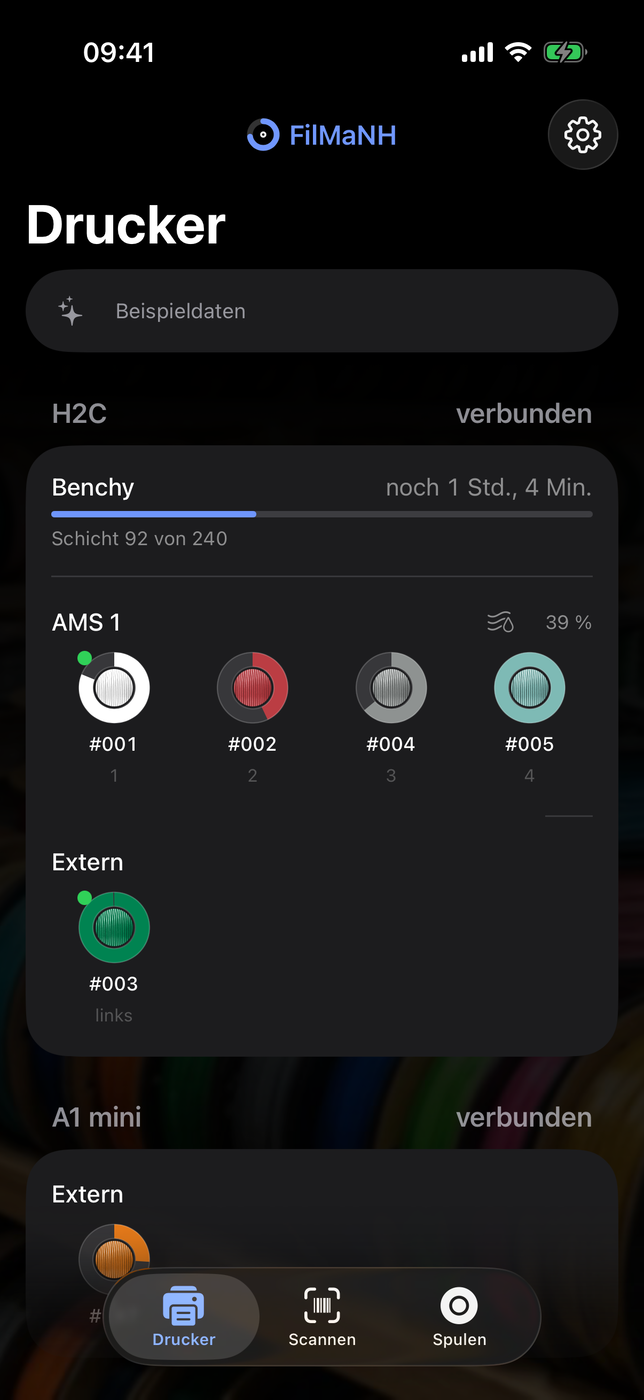
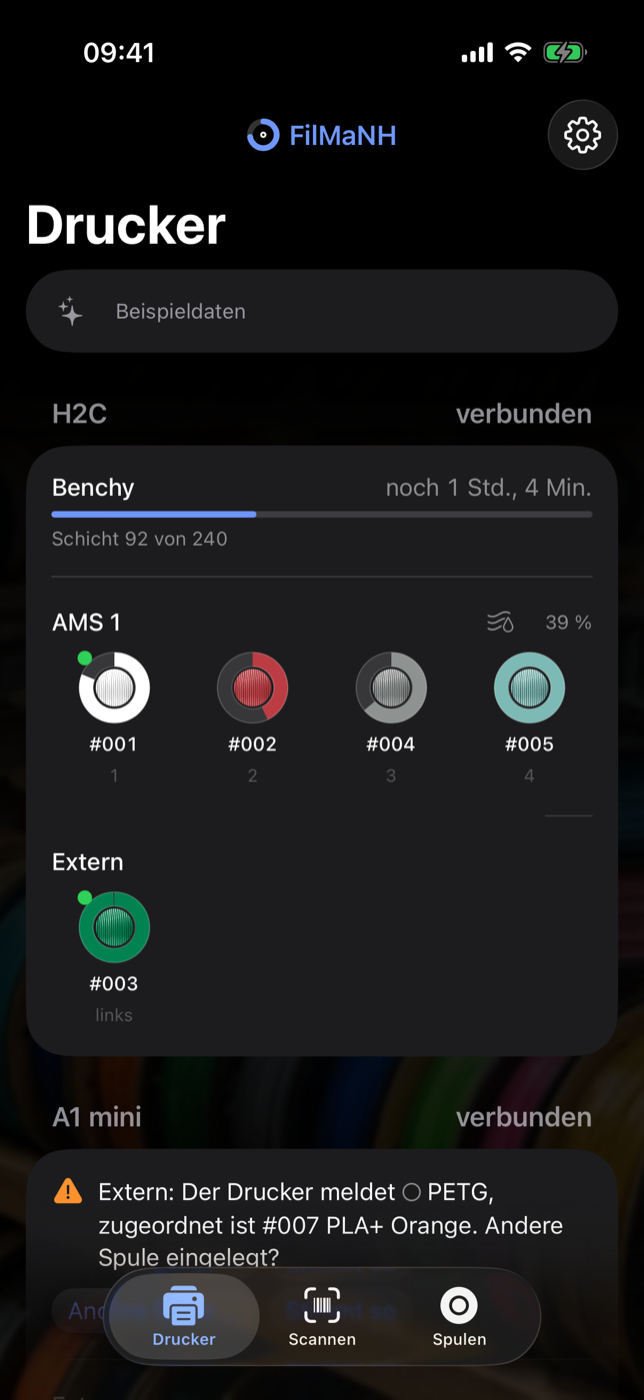
Handbuch 0.8.0: Abgleich mit dem Drucker, Etikettenbögen, Farben der Spulen, Statusanzeige

diff --git a/handbuch/README.md b/handbuch/README.md
@@ -82,8 +82,9 @@ Die Einrichtung lässt sich mit **Später einrichten** überspringen und unter E
 
 ![Übersicht](bilder/01-uebersicht.png)
 
-- **Hinweise** oben zeigen, was Aufmerksamkeit braucht: falsches Material im Slot, Druck mit offenem Ende, Spule
-  ohne Zuordnung, Feuchte, fast leere Spulen. Die passende Aktion steht jeweils daneben.
+- **Hinweise** oben zeigen, was Aufmerksamkeit braucht: falsches Material im Slot, Druck mit offenem Ende, Slots, die
+  nicht zur Meldung des Druckers passen ([Abgleich mit dem Drucker](#abgleich-mit-dem-drucker)), Feuchte, fast leere
+  Spulen. Die passende Aktion steht jeweils daneben.
 - **Drucker** mit Status, laufendem Druck, Restzeit und den Slots samt Restmenge: je AMS die Slots 1–4 (bei mehreren
   AMS mit Überschrift), abgesetzt die externe Spule. Ein Klick öffnet den Drucker.
 - **Zuletzt gedruckt** mit Kosten.
@@ -164,10 +165,19 @@ Bezeichnung, wann die Spule geöffnet wurde, und ein QR-Code mit der Nummer. Bei
   Rollen, die der Drucker kann; die eingelegte ist markiert. Passt das gewählte Format nicht zur eingelegten Rolle,
   sagt FilMaNH das und druckt nicht; nach dem Wechsel **Erneut prüfen**. Das Etikett passt sich dem Format an, die
   Vorschau zeigt genau das Druckbild.
-- **Systemdialog:** für andere Etikettendrucker (Brother über den Treiber, Dymo, Niimbot, Phomemo) und A4-Bögen,
-  mit Vorlagen für gängige Größen. Unter Windows geht jeder Etikettendruck über den Systemdialog.
+- **Druckdialog des Systems (alle Drucker)** unter **Drucken über:** jeder Drucker mit Treiber – Etikettendrucker
+  (Brother, Dymo, Niimbot, Phomemo, Zebra, Rollo) ebenso wie ein Bürodrucker für Etikettenbögen. Unter Windows geht
+  jeder Etikettendruck über den Druckdialog.
 
-**Anzahl je Spule** druckt mehrere gleiche Etiketten. FilMaNH merkt sich, welche Spulen ein Etikett haben.
+![Etikettenbögen](bilder/09b-etiketten-bogen.png)
+
+Unter **Vorlage** stehen Etikettenrollen sowie A4-Bögen von Avery Zweckform und Herma und US-Letter-Bögen von Avery,
+jeweils mit Bestellnummer (gleichwertige zusammengefasst), Größe und Anzahl je Bogen. Passt keine, legt
+**Eigene Größe …** ein einzelnes Etikett oder einen Bogen mit Spalten, Zeilen, Rändern und Abständen an.
+
+**Anzahl je Spule** druckt mehrere gleiche Etiketten, **Beginnen bei Etikett** nutzt angefangene Bögen weiter.
+**Rahmen mitdrucken** druckt die Umrisse mit – zum Ausrichten erst auf Normalpapier. Im Druckdialog die Skalierung
+auf 100 % lassen. FilMaNH merkt sich, welche Spulen ein Etikett haben.
 
 ### Feuchte
 
@@ -178,8 +188,9 @@ PETG, PCTG und PET zeigen nach 30 Tagen offen einen Hinweis, TPU nach 14 Tagen, 
 
 ![Drucker](bilder/10-drucker.png)
 
-Der laufende Druck in 3D – der schon gedruckte Teil ist grün –, dazu Fortschritt, Schicht, Restzeit und Uhrzeit des
-Endes. **angepasst** heißt: Dieser Drucker braucht erfahrungsgemäß länger oder kürzer, als er anzeigt, und FilMaNH
+Der laufende Druck in 3D in den Farben der zugeordneten Spulen – der schon gedruckte Teil voll, der Rest
+durchscheinend –, dazu Fortschritt, Schicht, Restzeit und Uhrzeit des Endes. Darunter die Filamente des Drucks mit der
+Spule im Slot (Nummer wie auf dem Etikett); ein Klick darauf ordnet neu zu, das Modell färbt sich sofort um. **angepasst** heißt: Dieser Drucker braucht erfahrungsgemäß länger oder kürzer, als er anzeigt, und FilMaNH
 rechnet das ein. Das geschieht erst ab drei Drucken und nur, wenn es nachweislich genauer ist.
 
 Beim Druckstart prüft FilMaNH:
@@ -198,8 +209,27 @@ Druckers. **Einrichtung** oben rechts führt zu den Druckereinstellungen.
 
 ![Spule zuordnen](bilder/12-zuordnen.png)
 
-Steckt eine Spule ohne RFID im Slot, fragt FilMaNH, welche es ist: oben die passenden, darunter alle weiteren.
-Ein Klick auf den Slot öffnet die Auswahl jederzeit wieder, z.B. nach einem Spulenwechsel.
+Steckt eine Spule ohne RFID im Slot, fragt FilMaNH, welche es ist: oben die passenden, darunter alle weiteren, jeweils
+mit Nummer und Lagerort. Ein Klick auf den Slot öffnet die Auswahl jederzeit wieder, z.B. nach einem Spulenwechsel.
+
+### Abgleich mit dem Drucker
+
+![Abgleich](bilder/11b-abgleich.png)
+
+Jeder Bambu-Drucker meldet je Slot, was eingestellt ist (Material, Farbe, bei Bambu-Spulen der RFID-Chip) und ob
+Filament steckt. FilMaNH vergleicht das mit der zugeordneten Spule, auch ohne laufenden Druck:
+
+- **Ist das …?** Keine Spule zugeordnet, aber genau eine im Bestand passt. **Ja** ordnet sie zu, **Andere …** öffnet
+  die Auswahl.
+- **… aber keine Spule ist zugeordnet.** Es passen mehrere oder keine. **Zuordnen** öffnet die Auswahl.
+- **Andere Spule eingelegt?** Der Drucker meldet anderes Material, eine deutlich andere Farbe oder einen anderen
+  RFID-Chip. Passt genau eine Spule, ordnet **#… zuordnen** sie zu, sonst **Andere Spule …**. **Stimmt so** behält
+  die Zuordnung.
+- **… entnommen?** Der Slot ist laut Drucker leer. **Ja, entnommen** löst die Zuordnung, **Steckt noch** behält sie
+  (z.B. wenn nur das Filament ausgefahren ist).
+
+**Stimmt so** und **Steckt noch** gelten, bis der Drucker etwas anderes meldet; ebenso eine Zuordnung von Hand.
+Zugeordnet wird nur auf Klick – automatisch nur Bambu-Spulen mit RFID, denn nur deren Kennung ist eindeutig.
 
 ## 7. Druckdatei prüfen
 
@@ -228,7 +258,8 @@ Laufende Drucke lassen sich nicht löschen.
 
 - **Foto:** das letzte Bild des Zeitraffers, wenn beim Senden des Drucks „Zeitraffer“ eingeschaltet war. Ohne
   Zeitraffer das letzte Bild der Kameraaufzeichnung, falls der Drucker während des Drucks aufzeichnet (z.B. P2S).
-  Gibt es beides nicht, kannst du ein eigenes Foto hinzufügen. **3D** und **Bild** zeigen die Druckdatei.
+  Gibt es beides nicht, kannst du ein eigenes Foto hinzufügen. **3D** (in den Farben der Spulen) und **Bild** zeigen
+  die Druckdatei.
 - **Zeitraffer** abspielen. Mit **Zeitraffer herunterladen** (Einstellungen › Erfassung) liegt er nach dem Druck auf
   dem Rechner, sonst kommt er beim Abspielen vom Drucker. **Speichern …** sichert ihn; auf dem Mac wird ein AVI dabei
   zu einer `.mov`, die QuickTime abspielt. War der Zeitraffer beim Drucken aus, steht das hier.
@@ -340,9 +371,11 @@ installiert.
 
 Das Fenster zu schließen beendet FilMaNH nicht – Drucke werden weiter verfolgt.
 
-- **macOS:** Symbol oben rechts in der Menüleiste, während eines Drucks mit Fortschritt. Ganz beenden mit ⌘Q oder
-  **Beenden** im Menü des Symbols.
-- **Windows:** Symbol unten rechts im Infobereich. Windows 11 legt neue Symbole zunächst unter den Pfeil **^**; von
+- **macOS:** Symbol oben rechts in der Menüleiste. Während eines Drucks zeigt es eine Spule in der Farbe des
+  Filaments, das gerade gedruckt wird, daneben den Fortschritt; drucken mehrere Drucker, steht je Drucker eine Spule
+  da, die Prozente in derselben Reihenfolge. Ganz beenden mit ⌘Q oder **Beenden** im Menü des Symbols.
+- **Windows:** Symbol unten rechts im Infobereich, während eines Drucks in der Farbe des Filaments (je Drucker eine
+  Spule); der Tooltip nennt alle Drucker mit Fortschritt. Windows 11 legt neue Symbole zunächst unter den Pfeil **^**; von
   dort lässt es sich auf die Taskleiste ziehen. Ganz beenden mit **Beenden** im Menü des Symbols (Rechtsklick).
 
 Mit **Mit dem Rechner starten** (Einstellungen › Allgemein) läuft FilMaNH nach dem Hochfahren gleich im Hintergrund.

diff --git a/handbook/README.md b/handbook/README.md
@@ -82,7 +82,8 @@ Finally, FilMaNH asks for the **electricity price** per kWh (for the electricity
 ![Overview](images/01-uebersicht.png)
 
 - **Notices** at the top show what needs your attention: wrong material in a slot, a print whose end is unknown,
-  an unassigned spool, moisture, almost empty spools. The matching action sits right next to each one.
+  slots that don’t match what the printer reports ([Matching with the printer](#matching-with-the-printer)),
+  moisture, almost empty spools. The matching action sits right next to each one.
 - **Printers** with status, current print, remaining time and the slots with their remaining amount: slots 1–4 per
   AMS (with a heading when there are several), the external spool set apart. Click to open the printer.
 - **Recently printed** with costs.
@@ -164,10 +165,19 @@ in by hand.
   the printer supports; the loaded one is marked. If the chosen format does not match the loaded roll, FilMaNH says
   so and does not print; after changing the roll, **Check again**. The label adapts to the format, and the preview
   shows exactly what is printed.
-- **System dialog:** for other label printers (Brother via its driver, Dymo, Niimbot, Phomemo) and A4 sheets, with
-  templates for common sizes. On Windows, all label printing goes through the system dialog.
+- **System print dialog (all printers)** under **Print via:** any printer with a driver – label printers (Brother,
+  Dymo, Niimbot, Phomemo, Zebra, Rollo) as well as an office printer for label sheets. On Windows, all label printing
+  goes through the print dialog.
 
-**Copies per spool** prints several identical labels. FilMaNH remembers which spools have a label.
+![Label sheets](images/09b-etiketten-bogen.png)
+
+**Template** lists label rolls plus A4 sheets from Avery Zweckform and Herma and US Letter sheets from Avery, each with
+its product number (equivalent ones combined), size and labels per sheet. If none fits, **Custom size …** sets up a
+single label or a sheet with columns, rows, margins and gaps.
+
+**Copies per spool** prints several identical labels, **Start at label** reuses partly used sheets. **Print
+outlines** adds the outlines – to align on plain paper first. Keep the scale at 100 % in the print dialog. FilMaNH
+remembers which spools have a label.
 
 ### Moisture
 
@@ -178,8 +188,9 @@ PETG, PCTG and PET show a notice after 30 days open, TPU after 14 days, PA, PC, 
 
 ![Printer](images/10-drucker.png)
 
-The current print in 3D – the part already printed is green – plus progress, layer, remaining time and when it
-will be done. **adjusted** means: this printer usually takes longer or shorter than it shows, and FilMaNH takes
+The current print in 3D in the colours of the assigned spools – the part already printed solid, the rest
+see-through – plus progress, layer, remaining time and when it will be done. Below, the filaments of the print with
+the spool in each slot (number as on the label); click one to reassign, and the model changes colour right away. **adjusted** means: this printer usually takes longer or shorter than it shows, and FilMaNH takes
 that into account. This only happens after three prints and only if it is measurably more accurate.
 
 When a print starts, FilMaNH checks:
@@ -198,8 +209,27 @@ spool. H2D and H2C have two external holders (left and right); an empty one with
 
 ![Assign spool](images/12-zuordnen.png)
 
-When a spool without RFID is loaded, FilMaNH asks which one it is: matching spools first, all others below.
-Clicking the slot opens the selection again at any time, e.g. after changing spools.
+When a spool without RFID is loaded, FilMaNH asks which one it is: matching spools first, all others below, each with
+its number and location. Clicking the slot opens the selection again at any time, e.g. after changing spools.
+
+### Matching with the printer
+
+![Matching](images/11b-abgleich.png)
+
+Every Bambu printer reports for each slot what is set (material, colour, the RFID chip for Bambu spools) and whether
+filament is loaded. FilMaNH compares this with the assigned spool, even when nothing is printing:
+
+- **Is this …?** No spool assigned, but exactly one in stock matches. **Yes** assigns it, **Other …** opens the
+  picker.
+- **… but no spool is assigned.** Several match, or none. **Assign** opens the picker.
+- **Different spool loaded?** The printer reports a different material, a clearly different colour or a different
+  RFID chip. If exactly one spool matches, **Assign #…** assigns it, otherwise **Other spool …**. **That’s right**
+  keeps the assignment.
+- **… removed?** The printer reports the slot as empty. **Yes, removed** clears the assignment, **Still there** keeps
+  it (e.g. when only the filament was unloaded).
+
+**That’s right** and **Still there** apply until the printer reports something else; so does assigning by hand.
+Nothing is assigned without a click – automatically only Bambu spools with RFID, as only their ID is unique.
 
 ## 7. Check print file
 
@@ -228,7 +258,7 @@ deleted.
 
 - **Photo:** the last frame of the timelapse, if “Timelapse” was switched on when sending the print. Without a
   timelapse, the last frame of the camera recording, if the printer records during the print (e.g. P2S). If there
-  is neither, you can add your own photo. **3D** and **Image** show the print file.
+  is neither, you can add your own photo. **3D** (in the spools’ colours) and **Image** show the print file.
 - **Play timelapse.** With **Download timelapses** (Settings › Tracking) it is on your computer after the print;
   otherwise it comes from the printer when you play it. **Save …** keeps a copy; on a Mac an AVI becomes a `.mov`
   that QuickTime plays. If the timelapse was off during the print, this is shown here.
@@ -337,9 +367,11 @@ red when an update is available.
 
 Closing the window doesn’t quit FilMaNH – prints keep being tracked.
 
-- **macOS:** icon at the top right of the menu bar, showing progress during a print. Quit completely with ⌘Q or
-  **Quit** in the icon’s menu.
-- **Windows:** icon at the bottom right in the notification area. Windows 11 first puts new icons under the **^**
+- **macOS:** icon at the top right of the menu bar. During a print it shows a spool in the colour of the filament
+  being printed, with the progress next to it; when several printers print, there is one spool per printer and the
+  percentages in the same order. Quit completely with ⌘Q or **Quit** in the icon’s menu.
+- **Windows:** icon at the bottom right in the notification area, during a print in the colour of the filament (one
+  spool per printer); the tooltip lists all printers with progress. Windows 11 first puts new icons under the **^**
   arrow; you can drag it from there onto the taskbar. Quit completely with **Quit** in the icon’s menu (right-click).
 
 With **Launch at login** (Settings › General) FilMaNH starts in the background right after you log in.

diff --git a/handbuch/iphone.md b/handbuch/iphone.md
@@ -42,6 +42,7 @@ verschlüsselt. Die App erscheint demnächst im App Store.
 <p>
   <img src="bilder/iphone-drucker.png" width="240" alt="Drucker">
   <img src="bilder/iphone-slot.png" width="240" alt="Slot">
+  <img src="bilder/iphone-hinweis.png" width="240" alt="Hinweis">
 </p>
 
 Alle Drucker mit Zustand, laufendem Druck und Restzeit. Darunter jedes AMS mit den Slots 1–4 und der Feuchte (beim
@@ -50,6 +51,10 @@ Trocknen die Restzeit), dann die externe Spule (an H2D und H2C mit links/rechts)
 Ein Slot öffnet die Auswahl: **Im Slot** zeigt die Spule, **Slot leeren** nimmt sie heraus. Unter **Spule
 einlegen** stehen passende Spulen oben (gleiches Material wie im Slot gemeldet, dann noch nirgends eingelegte), oder
 **Etikett scannen** und die Spule über ihren QR-Code wählen.
+
+Passt ein Slot nicht zur Meldung des Druckers, steht ein Hinweis auf der Karte des Druckers – wie am Rechner (siehe
+[Abgleich mit dem Drucker](README.md#abgleich-mit-dem-drucker)): **Ja**, **Andere …**, **Zuordnen**,
+**Andere Spule …**, **Stimmt so**, **Ja, entnommen** oder **Steckt noch**.
 
 ## 4. Spulen
 

diff --git a/handbook/iphone.md b/handbook/iphone.md
@@ -42,6 +42,7 @@ coming soon to the App Store.
 <p>
   <img src="images/iphone-drucker.png" width="240" alt="Printers">
   <img src="images/iphone-slot.png" width="240" alt="Slot">
+  <img src="images/iphone-hinweis.png" width="240" alt="Notice">
 </p>
 
 All printers with state, current print and time left. Below, each AMS with slots 1–4 and its humidity (while drying,
@@ -50,6 +51,10 @@ the time left), then the external spool (left/right on H2D and H2C).
 A slot opens the picker: **In slot** shows the spool, **Empty slot** takes it out. Under **Load spool** matching
 spools come first (same material as the printer reports for the slot, then spools not loaded anywhere), or **Scan
 label** and pick the spool by its QR code.
+
+If a slot doesn’t match what the printer reports, a notice appears on the printer’s card – as on the computer (see
+[Matching with the printer](README.md#matching-with-the-printer)): **Yes**, **Other …**, **Assign**,
+**Other spool …**, **That’s right**, **Yes, removed** or **Still there**.
 
 ## 4. Spools
 

diff --git a/handbuch/android.md b/handbuch/android.md
@@ -59,6 +59,10 @@ Ein Slot öffnet die Auswahl: **Im Slot** zeigt die Spule, **Slot leeren** nimmt
 einlegen** stehen passende Spulen oben (gleiches Material wie im Slot gemeldet, dann noch nirgends eingelegte), oder
 **Etikett scannen** und die Spule über ihren QR-Code wählen.
 
+Passt ein Slot nicht zur Meldung des Druckers, steht ein Hinweis auf der Karte des Druckers – wie am Rechner (siehe
+[Abgleich mit dem Drucker](README.md#abgleich-mit-dem-drucker)): **Ja**, **Andere …**, **Zuordnen**,
+**Andere Spule …**, **Stimmt so**, **Ja, entnommen** oder **Steckt noch**.
+
 ## 4. Spulen
 
 <p>

diff --git a/handbook/android.md b/handbook/android.md
@@ -58,6 +58,10 @@ A slot opens the picker: **In slot** shows the spool, **Empty slot** takes it ou
 spools come first (same material as the printer reports for the slot, then spools not loaded anywhere), or **Scan
 label** and pick the spool by its QR code.
 
+If a slot doesn’t match what the printer reports, a notice appears on the printer’s card – as on the computer (see
+[Matching with the printer](README.md#matching-with-the-printer)): **Yes**, **Other …**, **Assign**,
+**Other spool …**, **That’s right**, **Yes, removed** or **Still there**.
+
 ## 4. Spools
 
 <p>
